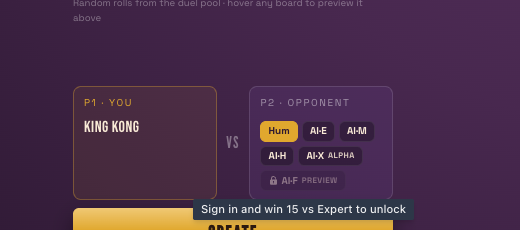
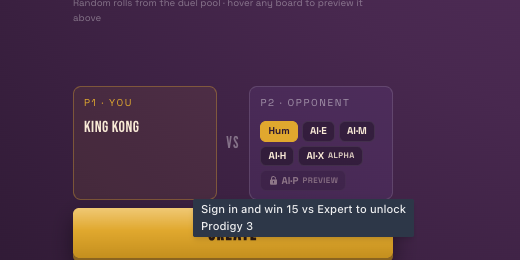
unbrewed-p2p-933: name the jevx3 tier "Prodigy" (AI·P), full name "Prodigy 3" in tooltips
The everyday name "Prodigy" is used on the chip, the stats page and match
history. The versioned "Prodigy 3" appears only in the chip's tooltip:
"Prodigy 3 · preview" when unlocked, or on the line after the unlock hint when
locked. Both names live on the one jevx3 line in TIER_META (label + new
fullName), and the tooltip is derived from them. Screenshots retaken.

Claude-Session: https://claude.ai/code/session_01Tj4Pn3XJPmii7XUAJVDP5Z

diff --git a/lib/pro/botTiers.ts b/lib/pro/botTiers.ts
@@ -43,8 +43,11 @@ const TIER_ORDER: readonly ClientBotTier[] = ["easy", "medium", "hard", "expert"
 
 export interface BotTierChoice {
   id: BotDifficulty;
-  /** Long form, for the roomy seat cards ("Hard bot"). */
+  /** Long form, for the roomy seat cards ("Hard bot"). The everyday name. */
   label: string;
+  /** The exact, versioned name ("Prodigy 3") for a tier that has one — shown only
+   *  where a player looks closer (the chip's tooltip), never where space is tight. */
+  fullName?: string;
   /** Compact form, for the create screen's seat plates ("AI·H"). */
   chip: string;
   /** Tiny provenance badge rendered next to the label, when the tier has one. */
@@ -59,10 +62,19 @@ export interface BotTierChoice {
 }
 
 /**
+ * A tier named like a model family + exact version: `label` is the everyday name,
+ * `fullName` the versioned one, and the tooltip is derived from them.
+ */
+const versioned = (meta: BotTierChoice & { fullName: string }): BotTierChoice => ({
+  ...meta,
+  tooltip: meta.badge ? `${meta.fullName} · ${meta.badge}` : meta.fullName,
+});
+
+/**
  * Everything a player can read about a tier. Player-facing text must never reveal
  * the tech behind a tier (no internal ids, model or API names) — the wire id
- * `jevx3` stays internal. Its name is still being chosen: rename it by editing
- * the `jevx3` entry's label/chip/badge line below, nothing else.
+ * `jevx3` stays internal. Rename it, or bump its version, by editing the `jevx3`
+ * line below and nothing else.
  */
 const TIER_META: Record<ClientBotTier, BotTierChoice> = {
   easy: { id: "easy", label: "Easy bot", chip: "AI·E" },
@@ -75,14 +87,19 @@ const TIER_META: Record<ClientBotTier, BotTierChoice> = {
     badge: "alpha",
     tooltip: "experimental - beware",
   },
-  jevx3: {
-    id: "jevx3",
-    ...{ label: "Familiar 3", chip: "AI·F", badge: "preview" }, // ← the one-line rename
-    tooltip: "experimental - the strongest bot yet",
-  },
+  jevx3: versioned({ id: "jevx3", label: "Prodigy", fullName: "Prodigy 3", chip: "AI·P", badge: "preview" }),
 };
 
 export const botTierMeta = (tier: ClientBotTier): BotTierChoice => TIER_META[tier];
+
+/**
+ * A chip's tooltip. Unlocked: the tier's own tooltip. Locked: the unlock hint,
+ * then the full name on its own line (render with `whiteSpace="pre-line"`).
+ */
+export const tierTooltip = (
+  c: Pick<BotTierChoice, "tooltip" | "locked" | "lockHint" | "fullName">,
+): string | undefined =>
+  c.locked ? [c.lockHint, c.fullName].filter(Boolean).join("\n") || undefined : c.tooltip;
 
 /** Player-facing meta for any difficulty string, or null for one this client never shows. */
 export const knownBotTierMeta = (tier: string): BotTierChoice | null =>

diff --git a/lib/pro/botTiers.test.ts b/lib/pro/botTiers.test.ts
@@ -7,7 +7,7 @@
  * new tier still switched off) must land on exactly today's easy/medium/hard,
  * and a server that does advertise is taken at its word, per hero.
  */
-import { availableBotTiers, botTierChoices, botTierMeta, ClientBotTier, coerceBotTier } from "./botTiers";
+import { availableBotTiers, botTierChoices, botTierMeta, ClientBotTier, coerceBotTier, tierTooltip } from "./botTiers";
 import type { BotDifficulty, HeroListing } from "./protocol";
 
 const listing = (heroId: string, botTiers?: BotDifficulty[]): HeroListing => ({
@@ -106,14 +106,37 @@ describe("jev / jevx3 (#933)", () => {
     expect(ids).not.toContain("jev");
   });
 
-  it("jevx3 renders under its display name, chip and badge", () => {
-    expect(botTierMeta("jevx3")).toMatchObject({ id: "jevx3", label: "Familiar 3", chip: "AI·F", badge: "preview" });
+  it("jevx3 renders under its everyday name, chip and badge; the full name is versioned", () => {
+    expect(botTierMeta("jevx3")).toMatchObject({
+      id: "jevx3",
+      label: "Prodigy",
+      fullName: "Prodigy 3",
+      chip: "AI·P",
+      badge: "preview",
+      tooltip: "Prodigy 3 · preview",
+    });
+  });
+
+  it("the chip is 'AI·P' with no digit, and its tooltip carries the full name 'Prodigy 3'", () => {
+    const meta = botTierMeta("jevx3");
+    expect(meta.chip).toBe("AI·P");
+    expect(meta.chip).not.toMatch(/\d/);
+    expect(meta.label).not.toMatch(/\d/);
+    expect(tierTooltip(meta)).toContain("Prodigy 3");
+  });
+
+  it("locked: the tooltip is the unlock hint, then the full name on its own line", () => {
+    const locked = { ...botTierMeta("jevx3"), locked: true, lockHint: "12/15 wins vs Expert to unlock" };
+    expect(tierTooltip(locked)).toBe("12/15 wins vs Expert to unlock\nProdigy 3");
+    // a tier without a full name shows just its hint
+    expect(tierTooltip({ ...botTierMeta("expert"), locked: true, lockHint: "hint" })).toBe("hint");
+    expect(tierTooltip(botTierMeta("hard"))).toBeUndefined();
   });
 
   it("no player-facing text reveals the tech behind a tier", () => {
     const FORBIDDEN = /jev|llm|api|ismcts/i;
     for (const c of botTierChoices([listing("king-kong", ALL)], ["king-kong"])) {
-      for (const text of [c.label, c.chip, c.badge, c.tooltip]) expect(text ?? "").not.toMatch(FORBIDDEN);
+      for (const text of [c.label, c.fullName, c.chip, c.badge, c.tooltip]) expect(text ?? "").not.toMatch(FORBIDDEN);
     }
   });
 });

diff --git a/pages/pro/game.tsx b/pages/pro/game.tsx
@@ -21,7 +21,7 @@ import { motion, useReducedMotion } from "framer-motion";
 import { MOVE_STEP_SECONDS, MoveHint, PendingMove, ProBoard } from "@/components/Pro/ProBoard";
 import { ProErrorBoundary } from "@/components/Pro/ProErrorBoundary";
 import { assignableSeats, BotSlotPlan, SlotOccupant } from "@/components/Pro/CreateSeats";
-import { availableBotTiers, botTierChoices, BotTierChoice, coerceBotTier } from "@/lib/pro/botTiers";
+import { availableBotTiers, botTierChoices, BotTierChoice, coerceBotTier, tierTooltip } from "@/lib/pro/botTiers";
 import { applyTierLocks, isAllowlisted, JEVX3_ALLOWLIST, lockedTiers, TierUnlockProgress, tierUnlockProgress } from "@/lib/pro/tierUnlock";
 import { OpponentChoice, useOpponentSeat } from "@/lib/pro/opponentSeat";
 import { stateHash } from "@/lib/pro/stateHash";
@@ -2703,6 +2703,7 @@ type SeatChip = {
   /** Offered but not yet earned (#933) — rendered, never selectable. */
   locked?: boolean;
   lockHint?: string;
+  fullName?: string;
 };
 const seatChips = (tiers: BotTierChoice[]): SeatChip[] => [
   { v: "human", label: "Hum" },
@@ -2713,6 +2714,7 @@ const seatChips = (tiers: BotTierChoice[]): SeatChip[] => [
     tooltip: t.tooltip,
     locked: t.locked,
     lockHint: t.lockHint,
+    fullName: t.fullName,
   })),
 ];
 
@@ -2738,7 +2740,7 @@ const PlateChips = ({
       // aria-disabled + a no-op click, NOT isDisabled: Chakra tooltips never fire
       // on a disabled button.
       const locked = !!c.locked;
-      const tip = locked ? c.lockHint : c.tooltip;
+      const tip = tierTooltip(c);
       const btn = (
         <Button
           key={c.v}
@@ -2746,7 +2748,7 @@ const PlateChips = ({
           size="xs"
           aria-pressed={active}
           aria-disabled={locked || undefined}
-          aria-label={locked && c.lockHint ? `${c.label} (locked): ${c.lockHint}` : undefined}
+          aria-label={locked && tip ? `${c.label} (locked): ${tip.replace(/\n/g, " · ")}` : undefined}
           data-locked={locked || undefined}
           data-testid={`seat-chip-${c.v}`}
           h="1.3rem"
@@ -2773,7 +2775,7 @@ const PlateChips = ({
         </Button>
       );
       return tip ? (
-        <Tooltip key={c.v} label={tip} openDelay={locked ? 0 : 200} fontSize="0.7rem">
+        <Tooltip key={c.v} label={tip} openDelay={locked ? 0 : 200} fontSize="0.7rem" whiteSpace="pre-line">
           {btn}
         </Tooltip>
       ) : (

diff --git a/test/pro/jevx3UnlockGate.test.tsx b/test/pro/jevx3UnlockGate.test.tsx
@@ -11,7 +11,7 @@
  * accounts API is a stubbed `fetch` (`/me` + `/me/stats`), re-probed per test.
  */
 import "@testing-library/jest-dom";
-import { act, render, screen } from "@testing-library/react";
+import { act, fireEvent, render, screen } from "@testing-library/react";
 import { ChakraProvider } from "@chakra-ui/react";
 import { QueryClient, QueryClientProvider } from "@tanstack/react-query";
 import { RouterContext } from "next/dist/shared/lib/router-context";
@@ -152,7 +152,9 @@ describe("jevx3 unlock gate (#933)", () => {
     const locked = chip("jevx3");
     expect(locked).toHaveAttribute("aria-disabled", "true");
     expect(locked).not.toBeDisabled(); // still focusable so the tooltip can open
-    expect(locked).toHaveTextContent("AI·F");
+    expect(locked).toHaveTextContent(/^AI·P\s*preview$/i);
+    expect(locked.textContent).not.toMatch(/\d/); // the everyday name has no version
+    expect(locked).toHaveAccessibleName(/Prodigy 3/); // …the full name is in the hint
     // Nothing a player can read names the tech behind the tier.
     expect(`${locked.textContent} ${locked.getAttribute("aria-label")}`).not.toMatch(/jev|llm|api|ismcts/i);
     expect(locked).toHaveAccessibleName(/Sign in and win 15 vs Expert to unlock/);
@@ -185,6 +187,13 @@ describe("jevx3 unlock gate (#933)", () => {
 
     const open = chip("jevx3");
     expect(open).not.toHaveAttribute("aria-disabled");
+    // Looking closer (hover) shows the full, versioned name.
+    await act(async () => {
+      fireEvent.pointerEnter(open);
+      fireEvent.focus(open);
+      await new Promise((r) => setTimeout(r, 400));
+    });
+    expect(await screen.findByRole("tooltip")).toHaveTextContent("Prodigy 3 · preview");
     await click(open);
     expect(chip("jevx3")).toHaveAttribute("aria-pressed", "true");
 

diff --git a/components/Pro/CreateSeats.tsx b/components/Pro/CreateSeats.tsx
@@ -1,7 +1,7 @@
 import { LockIcon } from "@chakra-ui/icons";
 import { Button, Flex, Grid, Text, Tooltip } from "@chakra-ui/react";
 import { BotDifficulty, HeroListing, PlayerId } from "@/lib/pro/protocol";
-import { botTierChoices } from "@/lib/pro/botTiers";
+import { botTierChoices, tierTooltip } from "@/lib/pro/botTiers";
 import { applyTierLocks, TierUnlockProgress, tierUnlockProgress } from "@/lib/pro/tierUnlock";
 import { ProFormatId, TeamSeatSource, teamComposition } from "@/lib/pro/multiplayerPlaytest";
 
@@ -108,7 +108,7 @@ export const CreateSeats = ({
     // Locked (#933): focusable, aria-disabled, no-op — not isDisabled, which
     // would stop the hint tooltip from ever opening. Mirrors PlateChips.
     const locked = !!choice.locked;
-    const tip = locked ? choice.lockHint : choice.tooltip;
+    const tip = tierTooltip(choice);
     const btn = (
       <Button
         key={choice.id}
@@ -116,7 +116,7 @@ export const CreateSeats = ({
         size="xs"
         data-testid={`bot-tier-${choice.id}`}
         aria-disabled={locked || undefined}
-        aria-label={locked && choice.lockHint ? `${choice.label} (locked): ${choice.lockHint}` : undefined}
+        aria-label={locked && tip ? `${choice.label} (locked): ${tip.replace(/\n/g, " · ")}` : undefined}
         data-locked={locked || undefined}
         onClick={locked ? undefined : onPick}
         opacity={locked ? 0.5 : undefined}
@@ -132,7 +132,7 @@ export const CreateSeats = ({
       </Button>
     );
     return tip ? (
-      <Tooltip key={choice.id} label={tip} openDelay={locked ? 0 : 200} fontSize="0.7rem">
+      <Tooltip key={choice.id} label={tip} openDelay={locked ? 0 : 200} fontSize="0.7rem" whiteSpace="pre-line">
         {btn}
       </Tooltip>
     ) : (

diff --git a/lib/account/stats.test.ts b/lib/account/stats.test.ts
@@ -536,7 +536,7 @@ describe("botTierLabel — never shows a raw wire id (#933)", () => {
   });
 
   it("names jevx3 by its display name and hides tiers the client doesn't show", () => {
-    expect(botTierLabel(row("jevx3"))).toBe("Familiar 3 bots");
+    expect(botTierLabel(row("jevx3"))).toBe("Prodigy bots");
     expect(botTierLabel(row("jev"))).toBe("Other bots");
     expect(botTierLabel(row("jevx3"))).not.toMatch(/jev/i);
   });

diff --git a/lib/account/gameHistory.test.ts b/lib/account/gameHistory.test.ts
@@ -204,7 +204,7 @@ describe("row labels", () => {
   it("names jevx3 by its display name and never prints a hidden tier's id (#933)", () => {
     expect(
       pilotLabel({ ...game.opponents[0], pilot: "bot:jevx3", botDifficulty: "jevx3" }),
-    ).toBe("Familiar 3");
+    ).toBe("Prodigy");
     expect(
       pilotLabel({ ...game.opponents[0], pilot: "bot:jev", botDifficulty: "jev" }),
     ).toBe("Bot");
